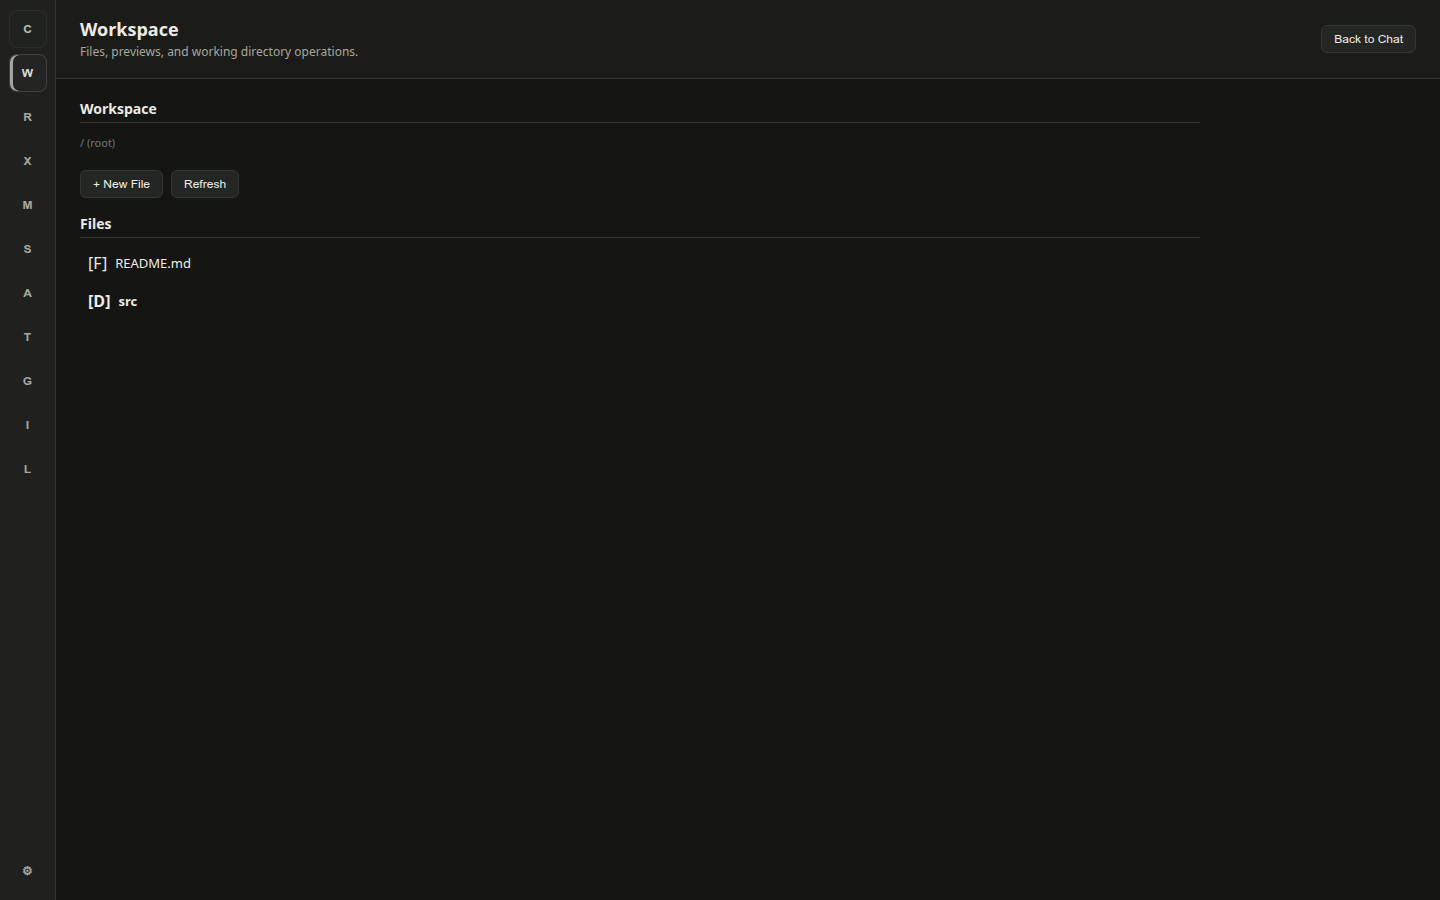
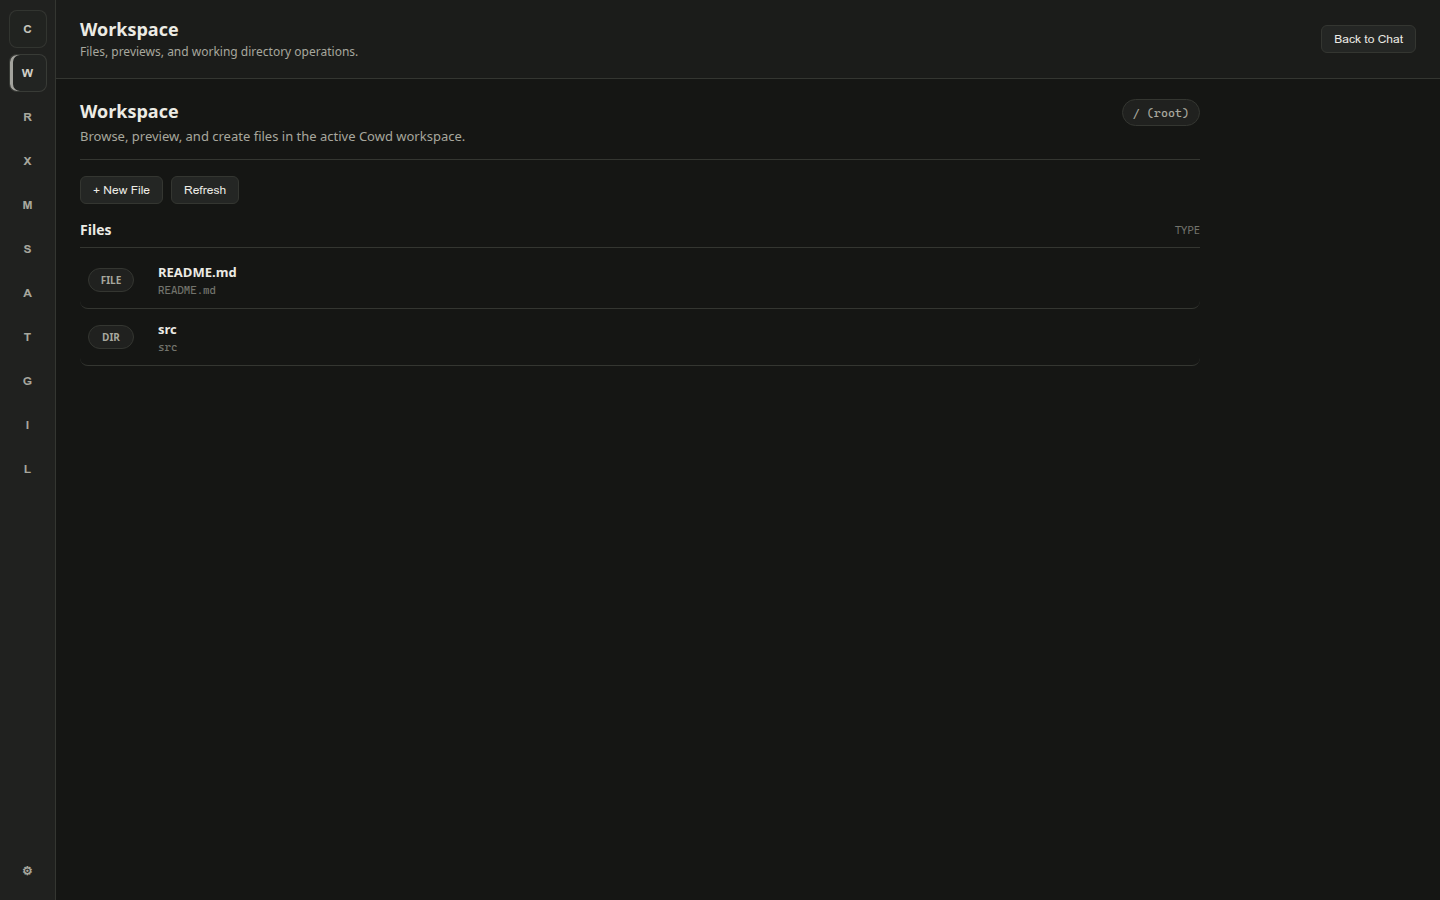
feat(webui): promote workspace to full page

diff --git a/webui/workspace.js b/webui/workspace.js
@@ -6,34 +6,36 @@ window.Workspace = (()=>{
     if(dir!==undefined)currentDir=dir||'';
     const cont=UI.$('panel-content');
     cont.innerHTML='';
+    cont.classList.add('workspace-page');
     const panel=UI.$('right-panel');
     if(panel)panel.classList.remove('hidden');
     document.querySelectorAll('#panel-tabs button[data-panel]').forEach(function(btn){
       btn.classList.toggle('tab-active',btn.dataset.panel==='workspace');
     });
 
-    const bread=UI.el('div','panel-section');
-    bread.innerHTML='<h3>Workspace</h3>';
-    const bc=UI.el('div');bc.style.cssText='font-size:11px;color:var(--text3);padding:4px 0';
-    bc.textContent=currentDir||'/ (root)';
-    bread.appendChild(bc);
-    cont.appendChild(bread);
+    const hero=UI.el('div','workspace-hero');
+    const heroText=UI.el('div','workspace-hero-text');
+    heroText.innerHTML='<h3>Workspace</h3><p>Browse, preview, and create files in the active Cowd workspace.</p>';
+    const pathBadge=UI.el('div','workspace-path');
+    pathBadge.textContent=currentDir||'/ (root)';
+    hero.appendChild(heroText);
+    hero.appendChild(pathBadge);
+    cont.appendChild(hero);
 
-    const actions=UI.el('div','panel-section');
+    const actions=UI.el('div','workspace-actions');
     const newFileBtn=UI.el('button','btn-secondary');
     newFileBtn.textContent='+ New File';
     newFileBtn.onclick=createFilePrompt;
     const refreshBtn=UI.el('button','btn-secondary');
     refreshBtn.textContent='Refresh';
     refreshBtn.onclick=()=>render();
-    refreshBtn.style.marginLeft='8px';
     actions.appendChild(newFileBtn);
     actions.appendChild(refreshBtn);
     cont.appendChild(actions);
 
-    const treeSec=UI.el('div','panel-section');
-    treeSec.innerHTML='<h3>Files</h3>';
-    const tree=UI.el('div');
+    const treeSec=UI.el('div','workspace-list-section');
+    treeSec.innerHTML='<div class="workspace-list-head"><h3>Files</h3><span>Type</span></div>';
+    const tree=UI.el('div','workspace-file-list');
     tree.id='file-tree';
     cont.appendChild(treeSec);
     treeSec.appendChild(tree);
@@ -48,17 +50,27 @@ window.Workspace = (()=>{
   }
 
   function renderTree(parent,items){
+    if(!items.length){
+      parent.appendChild(UI.el('div','panel-empty','No files in this directory'));
+      return;
+    }
     items.forEach(f=>{
-      const item=UI.el('div','panel-item');
-      const icon=UI.el('span','pi-icon');
-      icon.textContent=f.is_dir?'[D]':'[F]';
-      const name=UI.el('span','pi-name');
+      const isDir=!!(f.is_dir||f.type==='dir');
+      const item=UI.el('div','workspace-file-row');
+      const icon=UI.el('span','workspace-file-kind');
+      icon.textContent=isDir?'DIR':'FILE';
+      const info=UI.el('span','workspace-file-info');
+      const name=UI.el('b');
       name.textContent=f.name||f.path||'';
-      item.appendChild(icon);item.appendChild(name);
-      if(f.is_dir||f.type==='dir'){
+      const path=UI.el('small');
+      path.textContent=(currentDir?currentDir+'/':'')+(f.name||f.path||'');
+      info.appendChild(name);
+      info.appendChild(path);
+      item.appendChild(icon);
+      item.appendChild(info);
+      if(isDir){
         item.onclick=()=>render((currentDir?currentDir+'/':'')+(f.name||f.path));
         item.style.cursor='pointer';
-        item.style.fontWeight='600';
       }else{
         item.onclick=()=>previewFile(f);
       }

diff --git a/webui/style.css b/webui/style.css
@@ -96,6 +96,24 @@ pre,code{font-family:var(--font-mono);font-size:13px}
 .workbench-content .panel-section{max-width:1120px}
 .workbench-content .panel-section h3{font-size:14px}
 .workbench-content .panel-empty{text-align:left}
+.workspace-page{display:flex;flex-direction:column;gap:16px}
+.workspace-hero{display:flex;align-items:flex-start;justify-content:space-between;gap:16px;max-width:1120px;padding-bottom:14px;border-bottom:1px solid var(--border)}
+.workspace-hero h3{font-size:18px;font-weight:700;margin-bottom:4px}
+.workspace-hero p{font-size:13px;color:var(--text2);line-height:1.4}
+.workspace-path{flex:0 0 auto;max-width:45%;overflow:hidden;text-overflow:ellipsis;white-space:nowrap;border:1px solid var(--border);border-radius:999px;padding:5px 10px;color:var(--text2);background:var(--surface-subtle);font-size:12px;font-family:var(--font-mono)}
+.workspace-actions{display:flex;gap:8px;align-items:center;max-width:1120px}
+.workspace-list-section{max-width:1120px}
+.workspace-list-head{display:flex;align-items:center;justify-content:space-between;border-bottom:1px solid var(--border);padding-bottom:8px;margin-bottom:4px}
+.workspace-list-head h3{font-size:14px}
+.workspace-list-head span{font-size:11px;text-transform:uppercase;color:var(--text3)}
+.workspace-file-list{display:flex;flex-direction:column}
+.workspace-file-row{display:grid;grid-template-columns:58px minmax(0,1fr);align-items:center;gap:12px;border-bottom:1px solid var(--border);padding:11px 8px;border-radius:8px;color:var(--text)}
+.workspace-file-row:hover{background:var(--surface-hover)}
+.workspace-file-kind{display:inline-flex;align-items:center;justify-content:center;width:46px;height:24px;border:1px solid var(--border);border-radius:999px;color:var(--text2);font-size:10px;font-weight:700;background:var(--surface-subtle)}
+.workspace-file-info{min-width:0;display:flex;flex-direction:column;gap:2px}
+.workspace-file-info b,.workspace-file-info small{overflow:hidden;text-overflow:ellipsis;white-space:nowrap}
+.workspace-file-info b{font-size:13px}
+.workspace-file-info small{font-size:11px;color:var(--text3);font-family:var(--font-mono)}
 #chat-header{display:flex;align-items:center;justify-content:space-between;padding:8px 16px;background:var(--surface);border-bottom:1px solid var(--border);min-height:44px}
 #chat-header-left{display:flex;align-items:center;gap:12px;min-width:0}
 #chat-header-right{display:flex;gap:4px}
@@ -456,6 +474,9 @@ pre,code{font-family:var(--font-mono);font-size:13px}
   #workbench-header h1{font-size:16px}
   #workbench-header p{font-size:11px}
   .workbench-content{padding:14px}
+  .workspace-hero{flex-direction:column;gap:8px}
+  .workspace-path{max-width:100%}
+  .workspace-file-row{grid-template-columns:52px minmax(0,1fr);padding:10px 2px}
   #chat-header{padding:8px 10px;gap:8px}
   .chat-title-block{min-width:0}
   .chat-title-block span{display:none}

diff --git a/webui/webui-shell.e2e.spec.js b/webui/webui-shell.e2e.spec.js
@@ -112,3 +112,32 @@ test('v0.9.203 chat chrome and activity metadata stay readable', async ({ page }
 
   expect(errors).toEqual([]);
 });
+
+test('v0.9.204 workspace uses the full-page file workbench layout', async ({ page }) => {
+  const errors = [];
+  page.on('pageerror', err => errors.push('pageerror: ' + err.message));
+  page.on('console', msg => {
+    if (msg.type() !== 'error') return;
+    const text = msg.text();
+    if (text.includes('Failed to load resource')) return;
+    if (text.includes('Failed to find a valid digest')) return;
+    errors.push('console: ' + text);
+  });
+
+  await routeShellApis(page);
+  await page.setViewportSize({ width: 1440, height: 900 });
+  await page.goto('http://127.0.0.1:9241/index.html', { waitUntil: 'domcontentloaded' });
+  await page.click('#nav-rail [data-view="workspace"]');
+
+  await expect(page.locator('#workbench-content.workspace-page')).toBeVisible();
+  await expect(page.locator('.workspace-hero')).toContainText('Browse, preview, and create files');
+  await expect(page.locator('.workspace-file-list')).toContainText('README.md');
+  await expect(page.locator('.workspace-file-kind').first()).toHaveText('FILE');
+  await expect(page.locator('.workspace-file-kind').nth(1)).toHaveText('DIR');
+
+  await page.screenshot({ path: '../plan/0616-前端重构/screenshots/v0.9.204-workspace-desktop.png' });
+  await page.setViewportSize({ width: 390, height: 844 });
+  await page.screenshot({ path: '../plan/0616-前端重构/screenshots/v0.9.204-workspace-mobile.png' });
+
+  expect(errors).toEqual([]);
+});

diff --git a/webui/ui.js b/webui/ui.js
@@ -93,6 +93,7 @@ window.UI = (()=>{
     const mount=$('workbench-content');
     if(!mount)return;
     mount.innerHTML='';
+    mount.className='workbench-content';
     panelMountOverride=mount;
     try{
       if(typeof Workspace!=='undefined'&&name==='workspace')await Workspace.render();

diff --git a/plan/0616-前端重构/04-v0.9.204-workspace/REPORT.md b/plan/0616-前端重构/04-v0.9.204-workspace/REPORT.md
@@ -1,0 +1,79 @@
+# v0.9.204 Workspace 完整页面执行报告
+
+执行时间：2026-06-16 08:44 Asia/Shanghai
+
+## 目标回溯
+
+本阶段目标：
+
+- 将 Workspace 从旧 panel 堆叠结构升级为完整页面文件工作台。
+- 保留旧 right panel 兼容。
+- 增加 Workspace 专属 e2e 与截图。
+
+结论：已完成。
+
+## 代码改动
+
+- `webui/workspace.js`
+  - 新增 `.workspace-page` 页面容器类。
+  - 新增 `workspace-hero`、路径 badge、操作栏、文件列表布局。
+  - 文件/目录行改为 `FILE` / `DIR` 类型标签 + 名称 + 路径。
+  - 空目录提供明确空状态。
+- `webui/style.css`
+  - 新增 Workspace 全页面样式。
+  - 适配 desktop/mobile。
+- `webui/ui.js`
+  - workbench 渲染前重置 `#workbench-content` class，避免页面类互相污染。
+- `webui/webui-shell.e2e.spec.js`
+  - 新增 v0.9.204 Workspace 页面 e2e。
+
+## 测试结果
+
+命令：
+
+```bash
+cd webui && npm test
+```
+
+结果：
+
+- 1 个 test file 通过。
+- 81 个测试通过。
+
+命令：
+
+```bash
+cd webui && npm run test:e2e -- webui-shell.e2e.spec.js
+```
+
+结果：
+
+- 3 个 Playwright 测试通过。
+
+## 截图
+
+- `plan/0616-前端重构/screenshots/v0.9.204-workspace-desktop.png`
+- `plan/0616-前端重构/screenshots/v0.9.204-workspace-mobile.png`
+
+## 视觉检查
+
+通过截图确认：
+
+- Workspace 已占据完整 workbench 页面。
+- Desktop 下列表宽度、路径 badge、操作栏布局清晰。
+- Mobile 下内容无重叠，按钮和文件行可点击。
+- 文件/目录类型区分明确。
+
+## 未完成项
+
+- 文件预览仍沿用旧 preview 追加逻辑，后续应升级为右侧详情区或页面内预览面板。
+- 上传、搜索、多选、批量操作尚未接入。
+- Workspace 移动端目录详情后续可做抽屉式预览。
+
+## 下一步
+
+进入 v0.9.205：
+
+- Runtime + Context 完整页面。
+- 将 control-plane、leases、runs、approvals、context packet 等核心内核状态做成页面级布局。
+

diff --git a/plan/0616-前端重构/04-v0.9.204-workspace/PLAN.md b/plan/0616-前端重构/04-v0.9.204-workspace/PLAN.md
@@ -1,0 +1,32 @@
+# v0.9.204 Workspace 完整页面计划
+
+## 目标
+
+将 Workspace 从旧右侧 panel 结构升级为适合完整页面的文件管理工作台：
+
+1. 顶部路径、操作按钮、说明清晰。
+2. 文件列表使用宽屏列表布局。
+3. 文件/目录行具备清晰类型、名称、路径信息。
+4. 仍兼容旧 right panel 挂载。
+
+## 代码范围
+
+- `webui/workspace.js`
+- `webui/style.css`
+- `webui/webui-shell.e2e.spec.js`
+
+## TDD 设计
+
+1. e2e 打开 Workspace workbench。
+2. 验证 `.workspace-page`、`.workspace-file-list` 可见。
+3. 验证文件和目录行存在。
+4. 保存 desktop/mobile 截图。
+
+## 验收标准
+
+1. `cd webui && npm test` 通过。
+2. `cd webui && npm run test:e2e -- webui-shell.e2e.spec.js` 通过。
+3. 截图保存：
+   - `plan/0616-前端重构/screenshots/v0.9.204-workspace-desktop.png`
+   - `plan/0616-前端重构/screenshots/v0.9.204-workspace-mobile.png`
+

diff --git a/plan/0616-前端重构/reports/v0.9.204.md b/plan/0616-前端重构/reports/v0.9.204.md
@@ -1,0 +1,25 @@
+# v0.9.204 汇总报告
+
+状态：通过
+
+完成内容：
+
+- Workspace 全页面文件工作台。
+- 文件/目录行重构。
+- Desktop/mobile Workspace 截图。
+- Workspace 专属 e2e。
+
+测试：
+
+- `cd webui && npm test`：通过，81 tests。
+- `cd webui && npm run test:e2e -- webui-shell.e2e.spec.js`：通过，3 tests。
+
+截图：
+
+- `plan/0616-前端重构/screenshots/v0.9.204-workspace-desktop.png`
+- `plan/0616-前端重构/screenshots/v0.9.204-workspace-mobile.png`
+
+下一版本：
+
+- v0.9.205 Runtime + Context 完整页面。
+
